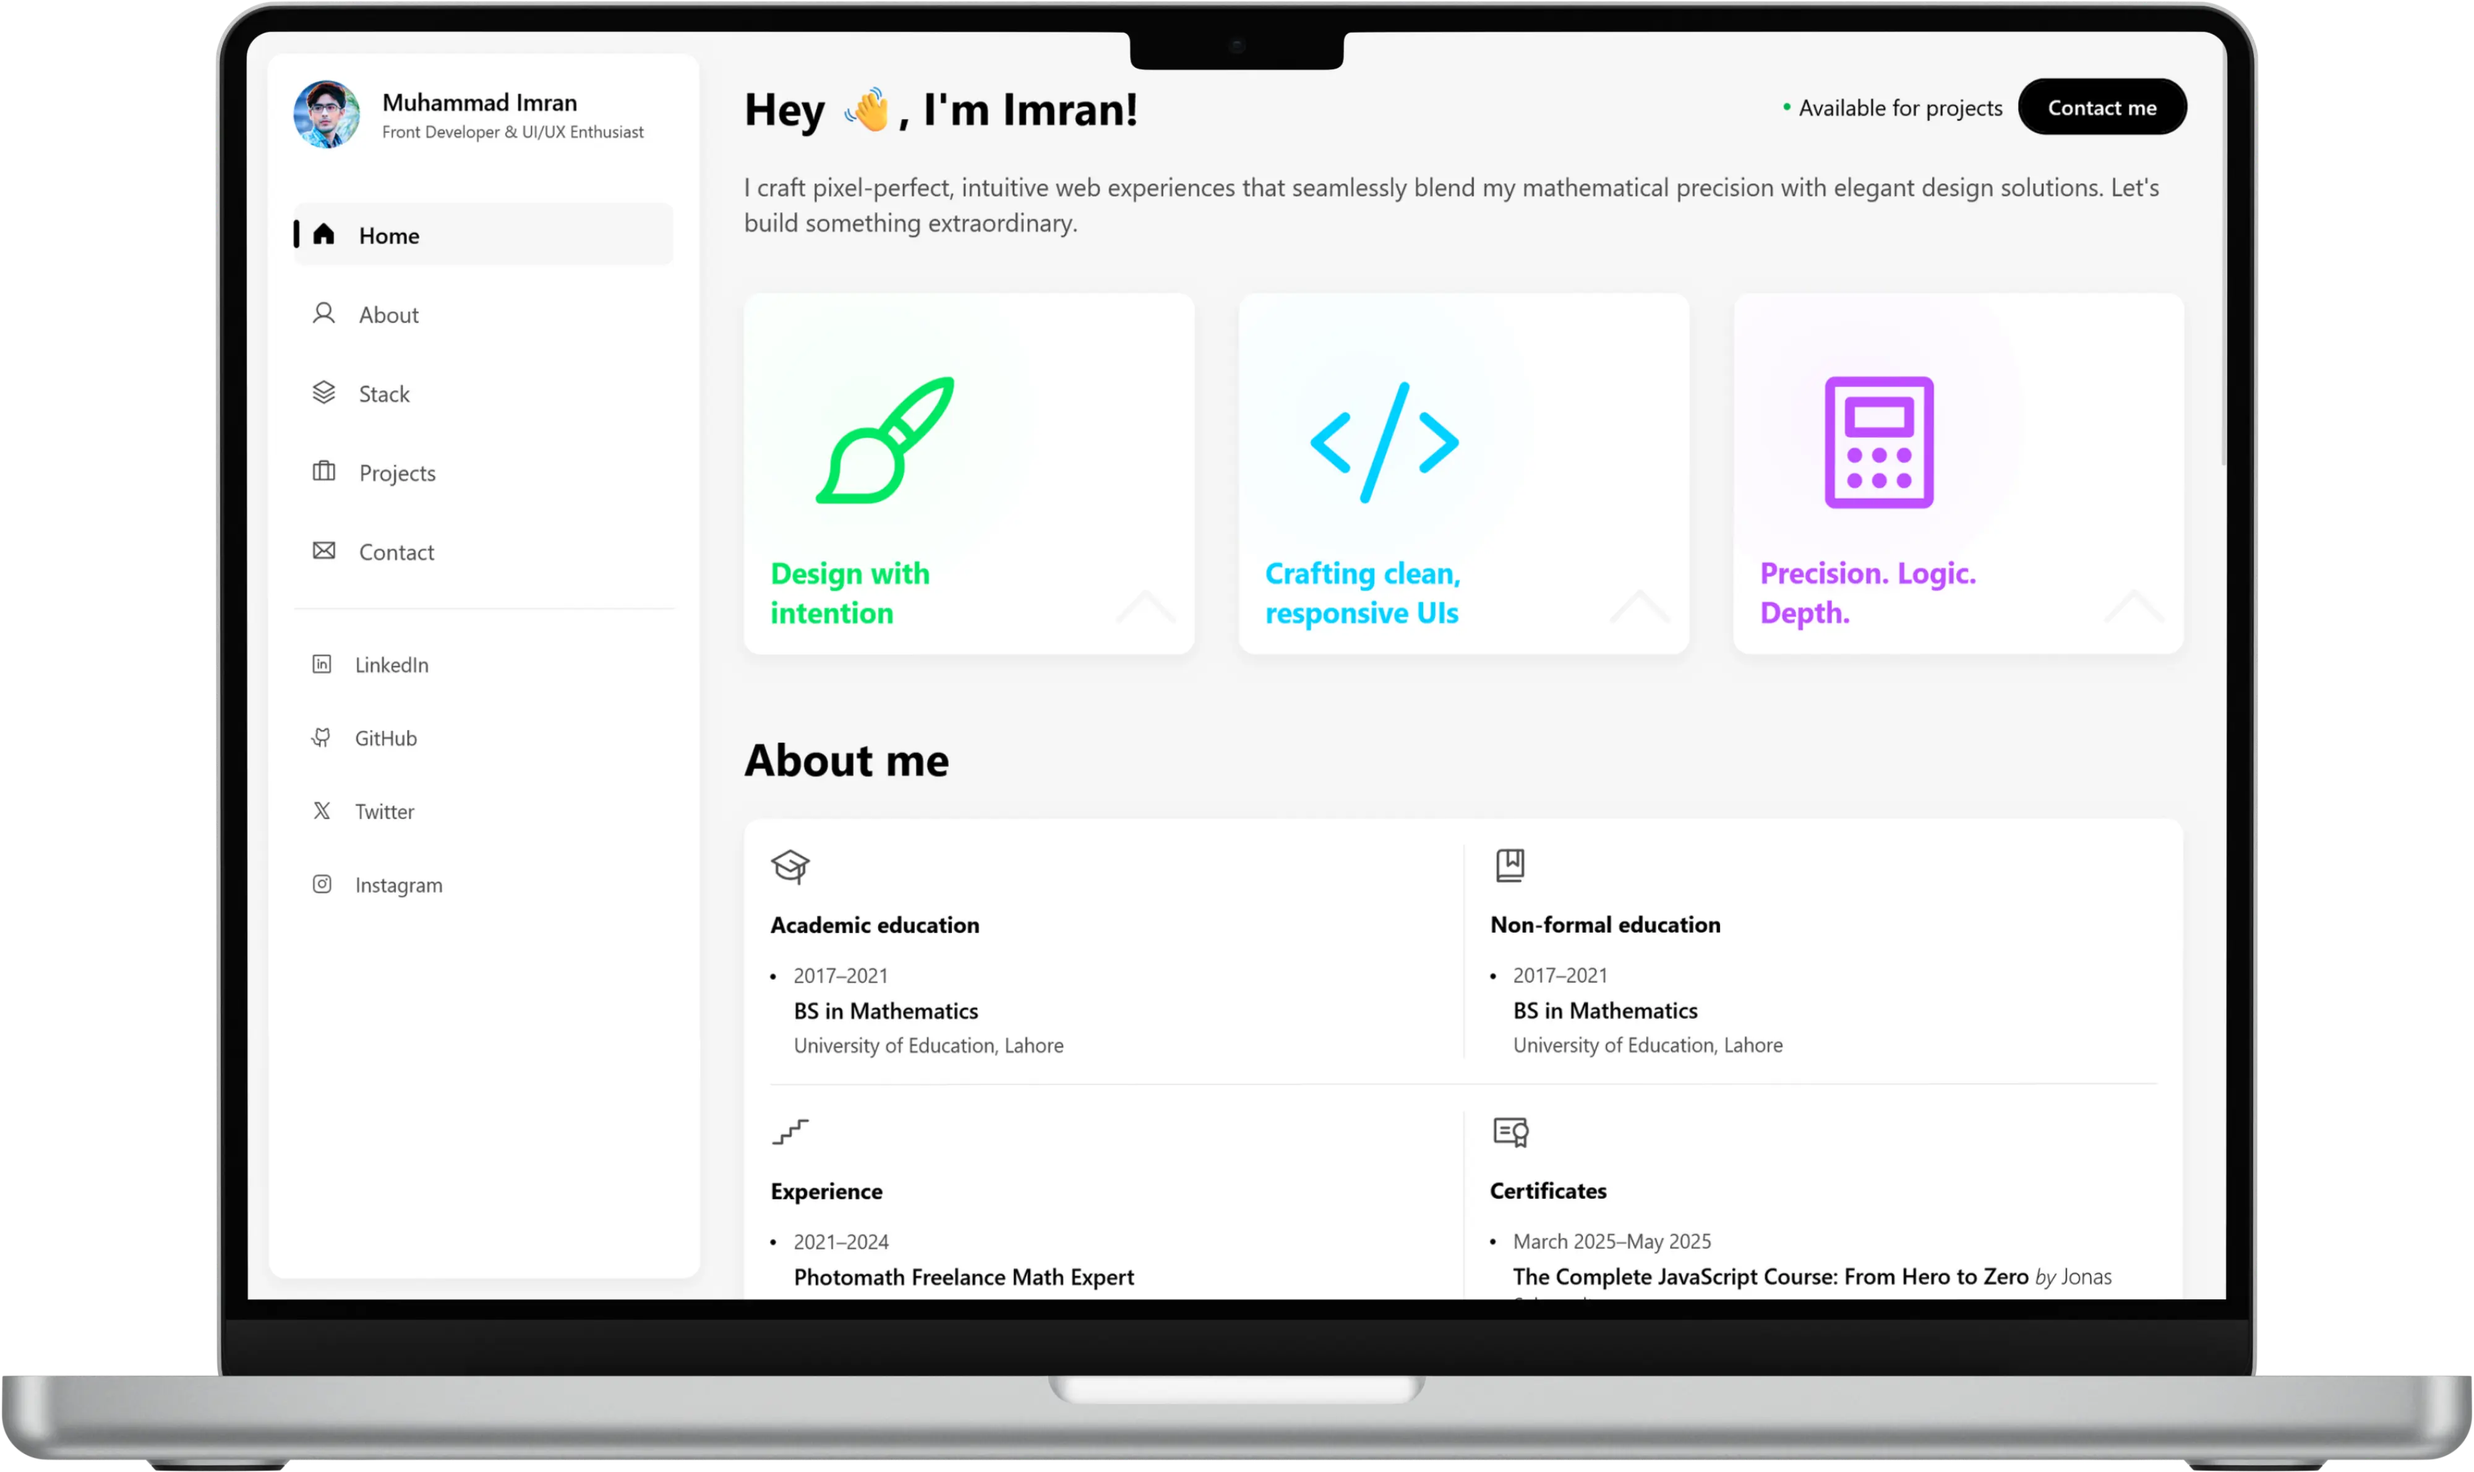
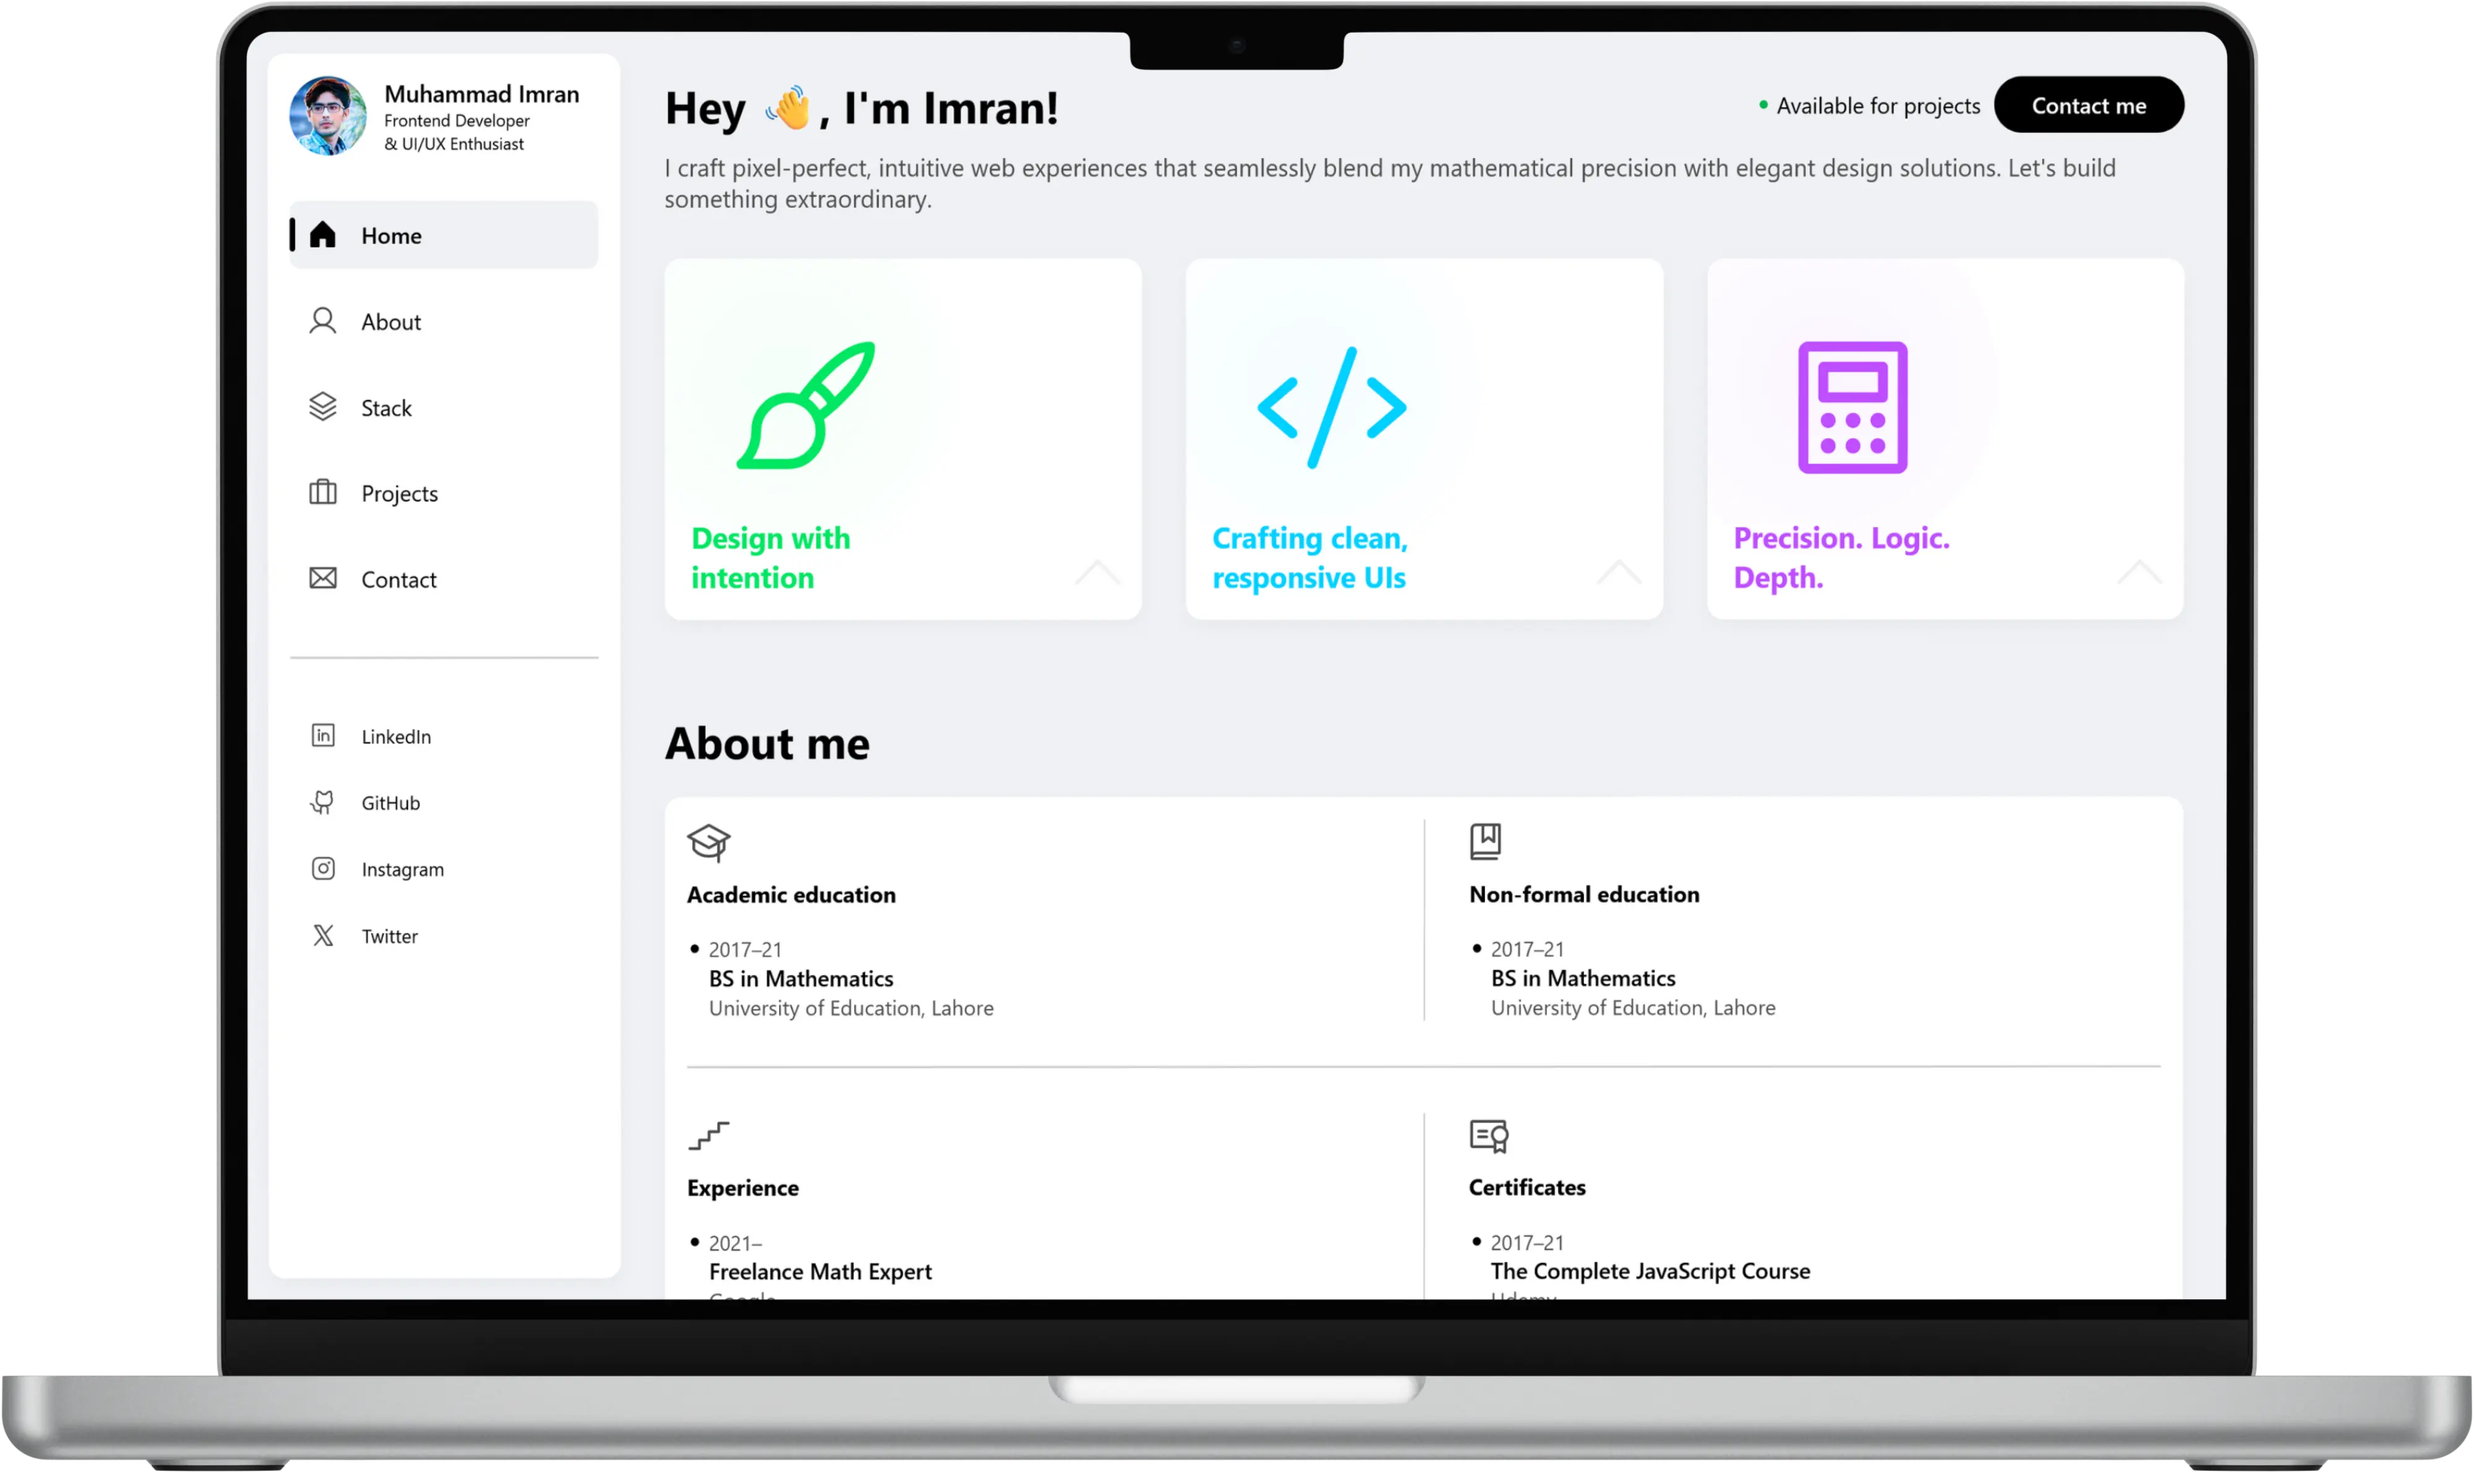
Changed white-97

diff --git a/1-INDEX/index.css b/1-INDEX/index.css
@@ -8,7 +8,7 @@
 :root {
   /* Whites */
   --white-100: rgb(255, 255, 255);
-  --white-97: rgb(247, 247, 247);
+  --white-97: rgb(240, 241, 245);
   --white-90: rgb(230, 230, 230);
   --white-80: rgb(204, 204, 204);
 
@@ -39,11 +39,14 @@
 
   /* RGB versions */
   --white-100-rgb: 255, 255, 255;
-  --white-97-rgb: 247, 247, 247;
+  --white-97-rgb: 240, 241, 245;
   --white-90-rgb: 230, 230, 230;
   --white-80-rgb: 204, 204, 204;
   --black-30-rgb: 77, 77, 77;
   --black-0-rgb: 0, 0, 0;
+
+  /* Box shadows */
+  --shadow-1: 0 4px 12px rgba(52,72,84,.05);
 }
 
 body {
@@ -101,7 +104,7 @@ nav {
   overflow-y: auto;
   transition: height 0.25s ease-out, width 0.25s ease-out, top 0.25s ease-out,
     left 0.25s ease-out, transform 0.5s ease-out;
-  box-shadow: 0 4px 12px rgba(var(--black-0-rgb), 0.1);
+  box-shadow: var(--shadow-1);
   scrollbar-width: none;
   scroll-behavior: smooth;
   
@@ -530,7 +533,7 @@ main {
   background-color: var(--white-100);
   padding: 1rem;
   border-radius: 12px;
-  box-shadow: 0 4px 12px rgba(var(--black-0-rgb), 0.1);
+  box-shadow: var(--shadow-1);
 }
 
 /* CORE SKILL CARS - MY EXPERTISE */
@@ -548,7 +551,7 @@ main {
   border-radius: 12px;
   position: relative;
   overflow: hidden;
-  box-shadow: 0 4px 12px rgba(0, 0, 0, 0.1);
+  box-shadow: var(--shadow-1);
 }
 
 .big-icon {
@@ -651,7 +654,7 @@ main {
   border-radius: 12px;
   position: relative;
   overflow: hidden;
-  box-shadow: 0 4px 12px rgba(0, 0, 0, 0.1);
+  box-shadow: var(--shadow-1);
 
   display: flex;
   align-items: center;
@@ -788,7 +791,7 @@ main {
   "about-hrule-1 about-hrule-1 about-hrule-1"
   "experience vrule-2 certificates";
   gap: 2rem;
-  box-shadow: 0 4px 12px rgba(0, 0, 0, 0.1);
+  box-shadow: var(--shadow-1);
 
   position: relative;
 }
@@ -1024,7 +1027,7 @@ main {
   background-color: var(--white-100);
   border-radius: 12px;
   padding: 1rem 1rem 6rem 1rem;
-  box-shadow: 0 4px 12px rgba(var(--black-0-rgb), 0.1);
+  box-shadow: var(--shadow-1);
 
   display: grid;
   grid-template-columns: repeat(3, 1fr);
@@ -1076,7 +1079,7 @@ main {
   background-color: var(--white-100);
   border-radius: 12px;
   padding: 1rem 1rem 6rem 1rem;
-  box-shadow: 0 4px 12px rgba(0, 0, 0, 0.1);
+  box-shadow: var(--shadow-1);
 
   display: grid;
   grid-template-columns: 1fr 1fr;

diff --git a/4-PROJECTS/Project-4/project-4.html b/4-PROJECTS/Project-4/project-4.html
@@ -197,14 +197,14 @@
                     <div class="more-pic-cont">
                         <img
                             id="tablet"
-                            src="../../IMAGES/my-portfolio.webp"
+                            src="../../IMAGES/my-portfolio-tablet.webp"
                             alt="portfolio-web-tablet"
                         />
                     </div>
                     <div class="more-pic-cont">
                         <img
                             id="mobile"
-                            src="../../IMAGES/my-portfolio.webp"
+                            src="../../IMAGES/my-portfolio-mobile.webp"
                             alt="portfolio-web-mobile"
                         />
                     </div>

diff --git a/4-PROJECTS/projects.css b/4-PROJECTS/projects.css
@@ -2,7 +2,7 @@
   background-color: var(--white-100);
   border-radius: 12px;
   padding: 1rem;
-  box-shadow: 0 4px 12px rgba(0, 0, 0, 0.1);
+  box-shadow: var(--shadow-1);
 
   display: grid;
   grid-template-columns: 1fr 1fr;
@@ -41,7 +41,7 @@
   background-color: #a7314c;
 }
 .proj-4 .proj-img-cont {
-  background-color: #f7f7f7;
+  background-color: rgb(240, 241, 245);
 }
 
 .proj-img-cont img {

diff --git a/5-CONTACT/contact.css b/5-CONTACT/contact.css
@@ -21,7 +21,7 @@
   text-decoration: none;
 
   color: var(--black-0);
-  box-shadow: 0 4px 12px rgba(0, 0, 0, 0.1);
+  box-shadow: var(--shadow-1);
 }
 
 .contact-card-logo-bg {
@@ -84,7 +84,7 @@
   display: flex;
   flex-direction: column;
   gap: 1.6rem;
-  box-shadow: 0 4px 12px rgba(0, 0, 0, 0.1);
+  box-shadow: var(--shadow-1);
 }
 
 .message-box form {

diff --git a/2-ABOUT/about.css b/2-ABOUT/about.css
@@ -14,7 +14,7 @@
     background-color: var(--white-100);
     border-radius: 12px;
     padding: 1rem;
-    box-shadow: 0 4px 12px rgba(var(--black-0-rgb), 0.1);
+    box-shadow: var(--shadow-1);
 }
 
 .about-me-card h3 {

diff --git a/4-PROJECTS/Project-1/project-1.css b/4-PROJECTS/Project-1/project-1.css
@@ -10,7 +10,7 @@
   border-radius: 12px;
   padding: 1rem;
   background-color: var(--white-100);
-  box-shadow: 0 4px 12px rgba(0, 0, 0, 0.1);
+  box-shadow: var(--shadow-1);
 
   display: flex;
   flex-direction: column;

diff --git a/4-PROJECTS/Project-4/project-4.css b/4-PROJECTS/Project-4/project-4.css
@@ -1,7 +1,7 @@
 .big-picture-cont {
-  background-color: #f7f7f7;
+  background-color: rgb(240, 241, 245);
 }
 
 .more-pic-cont {
-  background-color: #f7f7f7;
+  background-color: rgb(240, 241, 245);
 }

diff --git a/3-STACK/stack.css b/3-STACK/stack.css
@@ -6,7 +6,7 @@
   display: flex;
   flex-direction: column;
   gap: 2rem;
-  box-shadow: 0 4px 12px rgba(0, 0, 0, 0.1);
+  box-shadow: var(--shadow-1);
 }
 
 .div {
